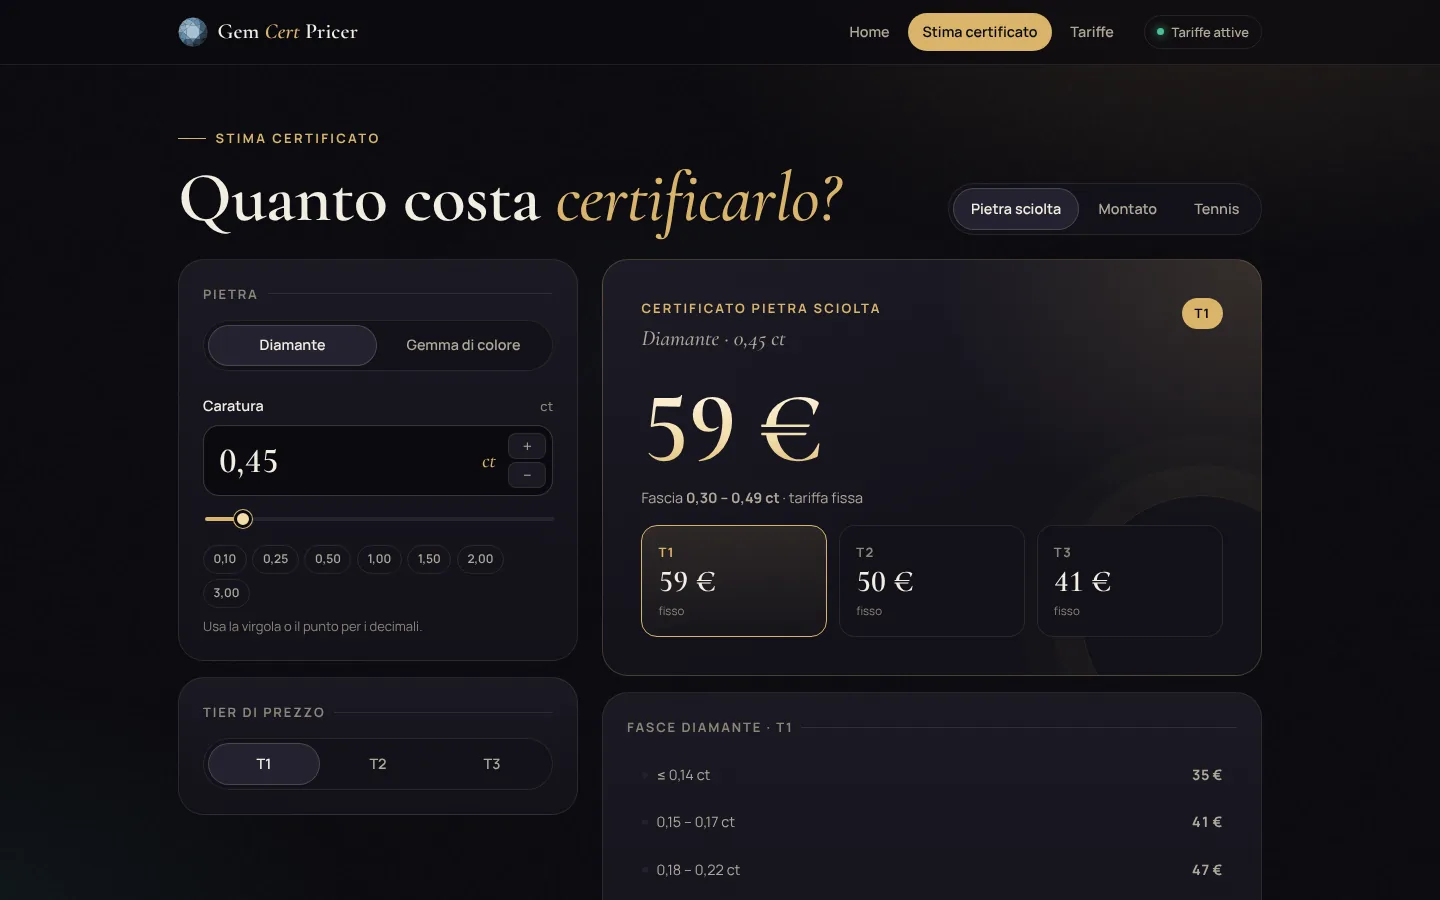
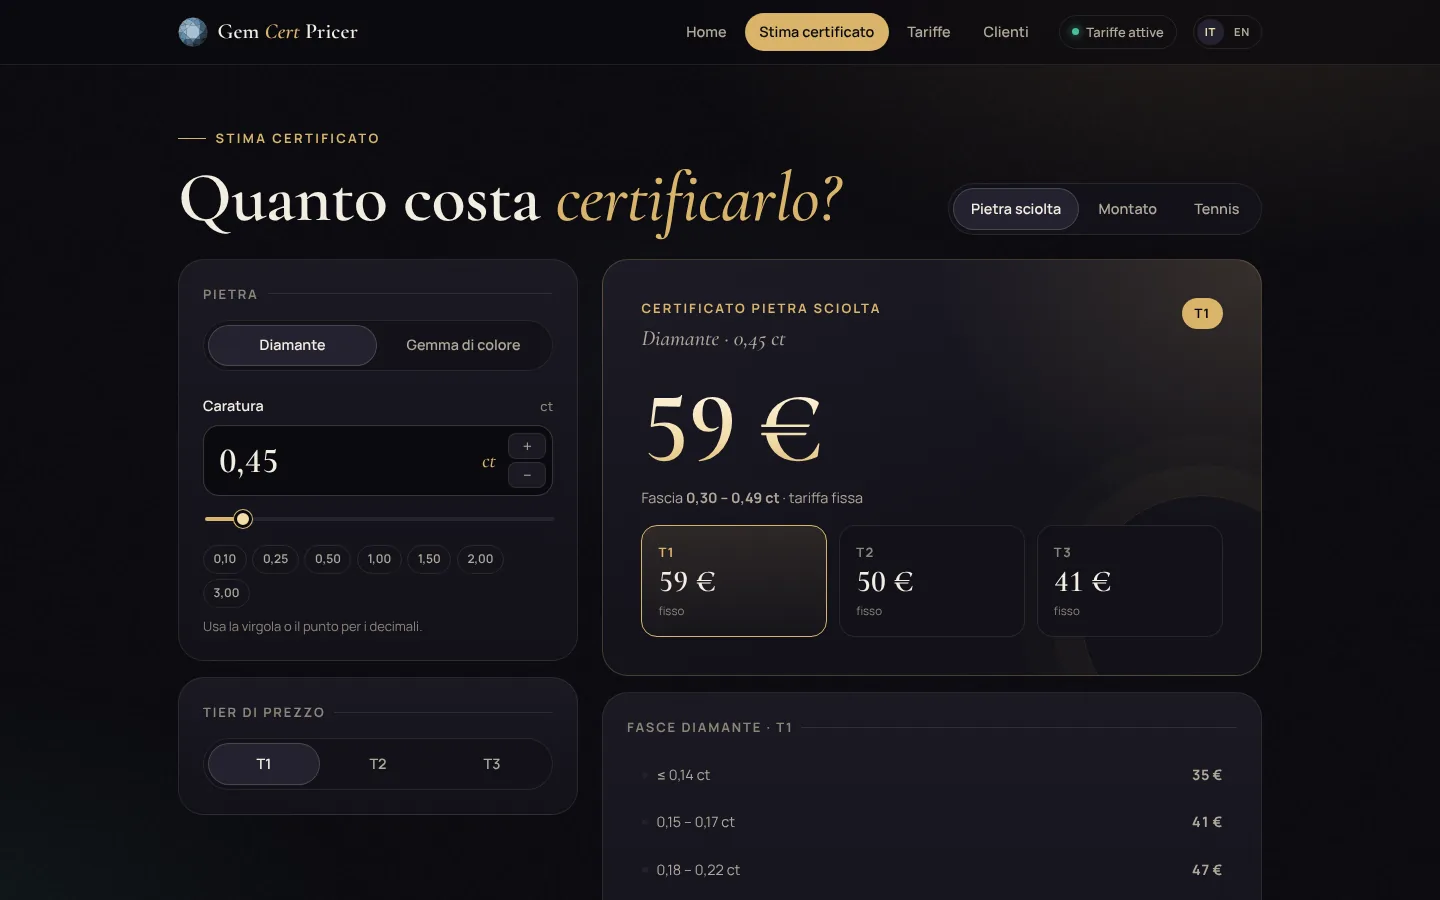
README: schermate aggiornate con pagina Clienti e versione pubblica
- Tutte le schermate rifatte con la nuova barra (Clienti, selettore IT/EN)
- Nuove: elenco clienti, scheda cliente con prezzi su misura, vista del
  cliente da link, interfaccia inglese, vista cliente da smartphone
- Tariffario e nomi dei clienti dimostrativi (inventati)
- Fix: etichetta «su misura» allineata a destra nel titolo delle tabelle

Claude-Session: https://claude.ai/code/session_01NQTazgPaWasX3WVcqGh7Dg

Changed region(s): [[0.4688, 0.0, 0.875, 0.0622]]

diff --git a/index.html b/index.html
@@ -571,7 +571,7 @@ table.rt { width: 100%; border-collapse: collapse; font-size: var(--text-sm); }
 .ov-table summary::-webkit-details-marker { display: none; }
 .ov-table summary::after { content: '+'; color: var(--gold); font-weight: 700; margin-left: auto; }
 .ov-table[open] summary::after { content: '−'; }
-.ov-table summary .custom-chip { margin-left: auto; }
+.ov-table summary > span:first-child { flex: 1; }
 .ov-table .rt-wrap { padding: 0 1rem .8rem; }
 table.rt.ov td.base { color: var(--faint); text-align: right; font-variant-numeric: tabular-nums; white-space: nowrap; padding-right: .8rem; }
 table.rt.ov th:nth-child(2) { text-align: right; }

diff --git a/README.md b/README.md
@@ -42,9 +42,11 @@ Il link contiene solo i prezzi effettivi di quel cliente e li trasporta nel fram
 
 ## 🖼 Schermate
 
-> Le schermate usano un tariffario **dimostrativo**: i prezzi mostrati sono inventati.
+> Le schermate usano un tariffario **dimostrativo**: prezzi e nomi dei clienti sono inventati.
 
 ![Pagina iniziale](docs/screenshots/home.webp)
+
+### Stima del certificato
 
 <table>
   <tr>
@@ -61,12 +63,27 @@ Il link contiene solo i prezzi effettivi di quel cliente e li trasporta nel fram
 
 ![Stima montato con gemma di colore](docs/screenshots/montato.webp)
 
-**Da smartphone** — layout ottimizzato con totale sempre visibile:
+### Clienti e versione pubblica
+
+<table>
+  <tr>
+    <td width="50%"><b>Database clienti</b> — tier di riferimento, prezzi su misura e link personale<br><br><img src="docs/screenshots/clienti.webp" alt="Elenco clienti"></td>
+    <td width="50%"><b>Scheda cliente</b> — prezzi su misura fascia per fascia rispetto al tier<br><br><img src="docs/screenshots/cliente.webp" alt="Scheda cliente con prezzi su misura"></td>
+  </tr>
+  <tr>
+    <td width="50%"><b>Vista del cliente</b> — aperta dal link personale: un solo prezzo, senza tier né tariffe<br><br><img src="docs/screenshots/pubblica.webp" alt="Versione pubblica vista dal cliente"></td>
+    <td width="50%"><b>English</b> — interfaccia bilingue con selettore IT/EN<br><br><img src="docs/screenshots/english.webp" alt="Interfaccia in inglese"></td>
+  </tr>
+</table>
+
+**Da smartphone** — home, stima con totale sempre visibile e vista del cliente:
 
 <p align="center">
-  <img src="docs/screenshots/m-home.webp" alt="Home da smartphone" width="280">
-  &nbsp;&nbsp;
-  <img src="docs/screenshots/m-montato.webp" alt="Stima montato da smartphone" width="280">
+  <img src="docs/screenshots/m-home.webp" alt="Home da smartphone" width="250">
+  &nbsp;
+  <img src="docs/screenshots/m-montato.webp" alt="Stima montato da smartphone" width="250">
+  &nbsp;
+  <img src="docs/screenshots/m-pubblica.webp" alt="Vista cliente da smartphone" width="250">
 </p>
 
 ---
@@ -169,7 +186,7 @@ gem-cert-pricer/
 ├── manifest.json           # Manifest PWA
 ├── icon-192.png / icon-512.png
 ├── sample-pricing.gcp.json # Template vuoto del tariffario
-├── docs/screenshots/       # Schermate usate nel README (prezzi dimostrativi)
+├── docs/screenshots/       # Schermate usate nel README (prezzi e clienti dimostrativi)
 └── README.md
 ```
 
